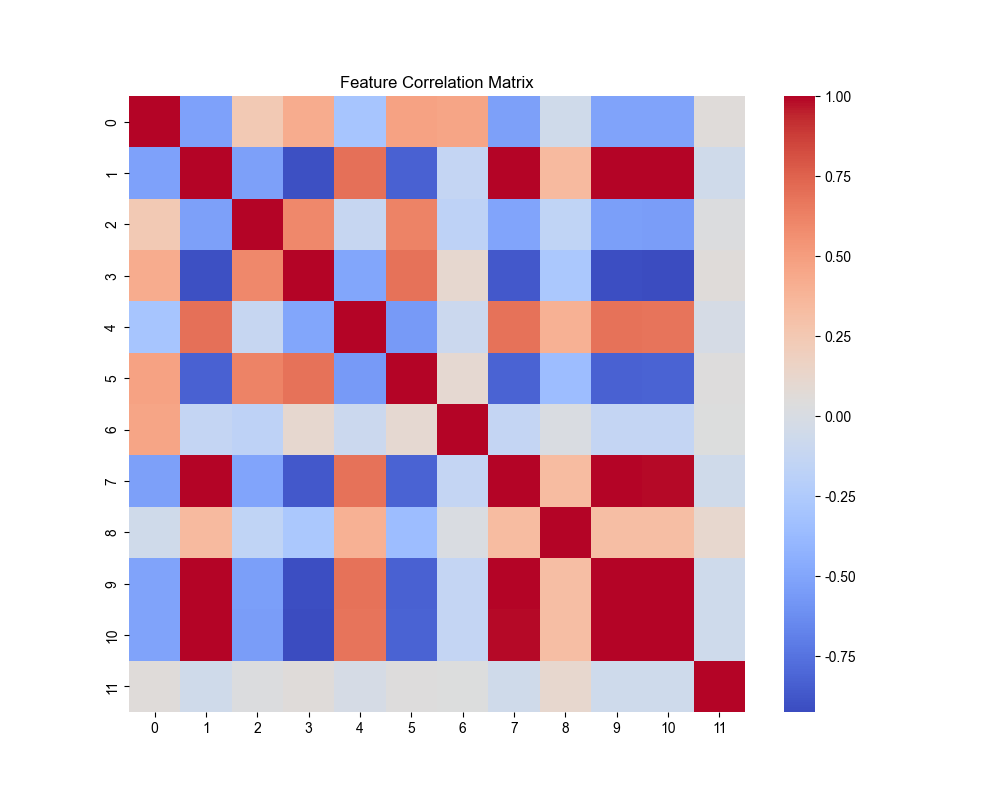
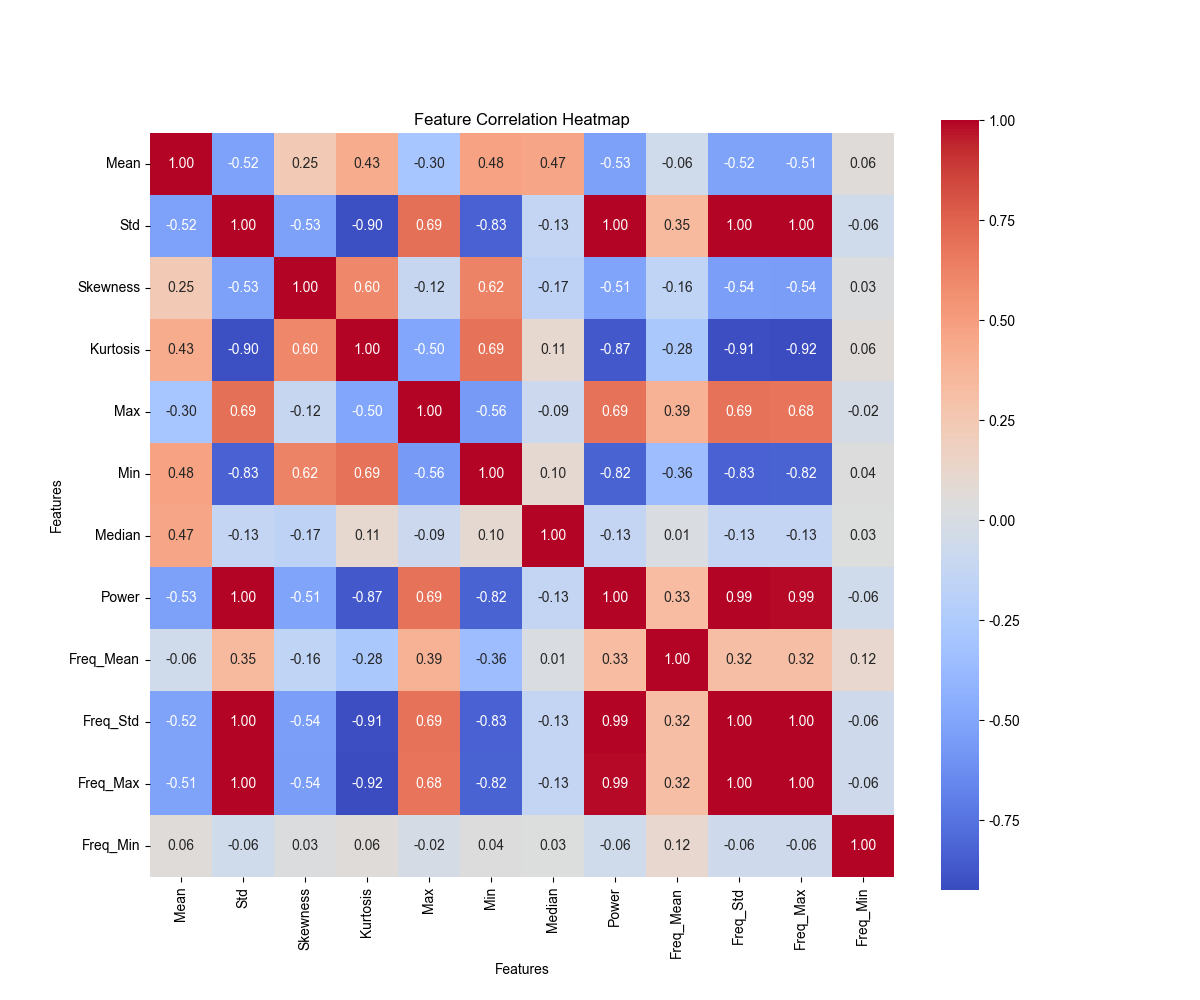
the bug of feature correlation

diff --git a/main.py b/main.py
@@ -98,20 +98,28 @@ def plot_sample_signals(data, labels, save_path=None, n=5):
     plt.show()
 
 def plot_dataset_summary(data, labels):
-    avg_signal = np.mean(data, axis=0)
-    plt.figure(figsize=(8, 4))
-    plt.plot(avg_signal)
-    plt.title("Average Signal Across Dataset")
-    plt.xlabel("Time")
-    plt.ylabel("Amplitude")
-    plt.tight_layout()
-    plt.show()
+    print("\nDataset Summary:")
+    print(f"Total Samples: {len(data)}")
+    print(f"Signal Length: {data.shape[1]}")
+    unique, counts = np.unique(labels, return_counts=True)
+    print("Label Distribution:")
+    for u, c in zip(unique, counts):
+        print(f"  Label {u}: {c} samples")
+    print("\nExample Signal Data:")
+    print(data[0])
 
 def plot_feature_correlation(features, save_path=None):
-    corr = np.corrcoef(features.T)
-    plt.figure(figsize=(10, 8))
-    sns.heatmap(corr, cmap='coolwarm', square=True)
-    plt.title("Feature Correlation Matrix")
+    feature_names = [
+        'Mean', 'Std', 'Skewness', 'Kurtosis', 'Max', 'Min', 'Median', 'Power',
+        'Freq_Mean', 'Freq_Std', 'Freq_Max', 'Freq_Min'
+    ]
+    corr = pd.DataFrame(features, columns=feature_names).corr()
+    plt.figure(figsize=(12, 10))
+    sns.heatmap(corr, cmap='coolwarm', annot=True, fmt=".2f", square=True,
+                xticklabels=feature_names, yticklabels=feature_names)
+    plt.title("Feature Correlation Heatmap")
+    plt.xlabel("Features")
+    plt.ylabel("Features")
     if save_path:
         plt.savefig(save_path)
     plt.tight_layout()
